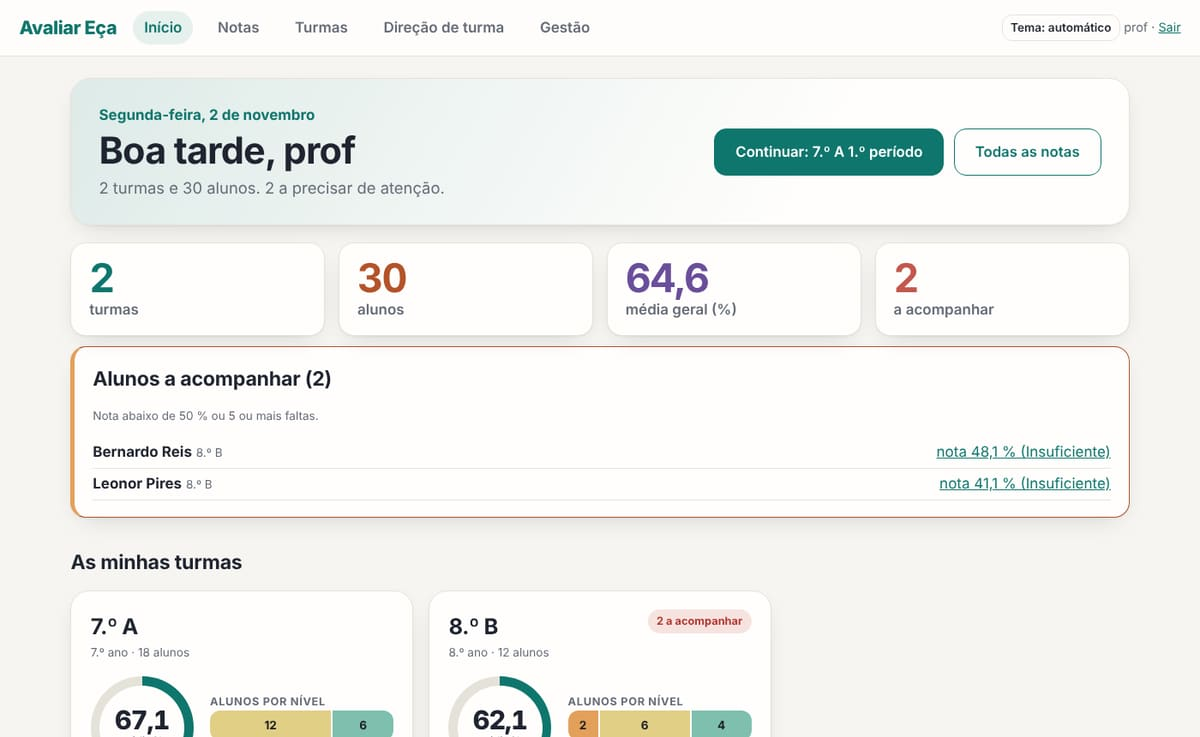
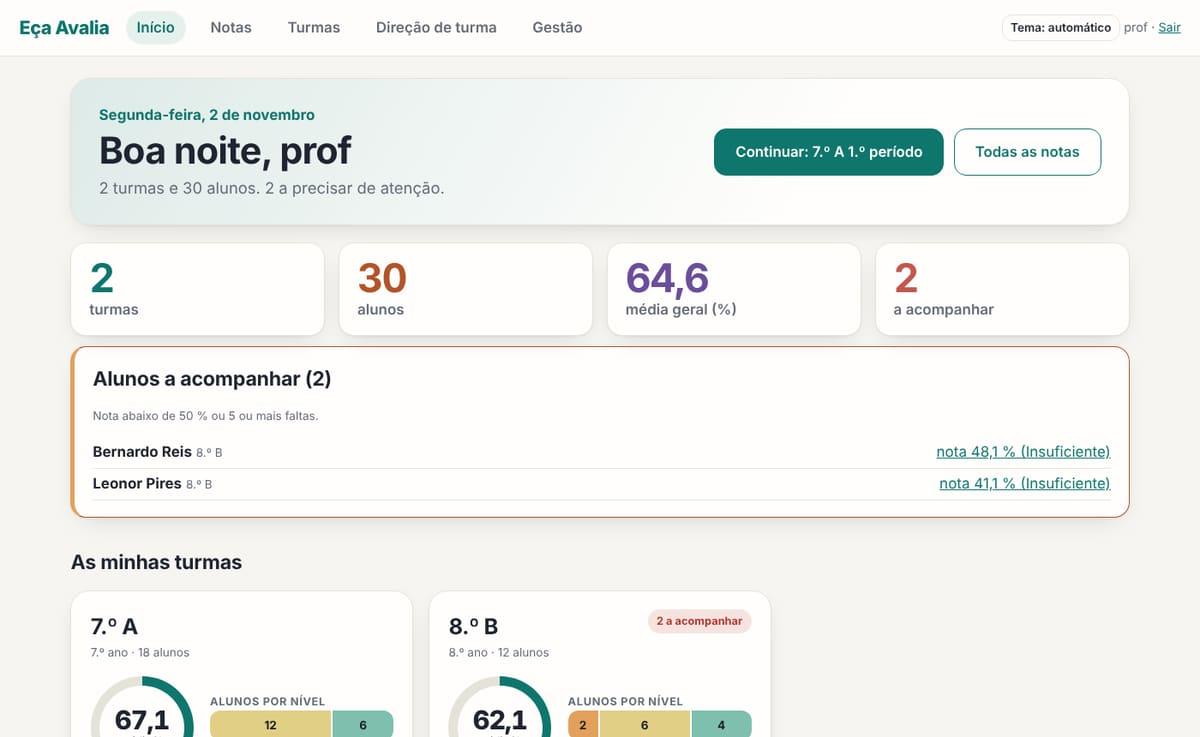
Nome Eça Avalia e nova página de entrada com explicação e infográficos (0.13.0)
Claude-Session: https://claude.ai/code/session_01VxEsXfbmY6rpa9bjUdyjvj

Changed region(s): [[0.1233, 0.1872, 0.3083, 0.2497], [0.2467, 0.0312, 0.4933, 0.0624], [0.0, 0.0312, 0.2158, 0.0624]]

diff --git a/public/entrar.html b/public/entrar.html
@@ -3,24 +3,28 @@
 <head>
 <meta charset="utf-8">
 <meta name="viewport" content="width=device-width, initial-scale=1">
-<title>Entrar · Avaliar Eça</title>
+<title>Entrar · Eça Avalia</title>
+<meta name="description" content="Eça Avalia: lançar e calcular notas, acompanhar alunos e preparar avaliações intercalares, com ferramentas de sala de aula, para docentes.">
 <link rel="stylesheet" href="/estilo.css?v=__V__">
 <script src="/tema.js?v=__V__"></script>
 </head>
-<body class="entrar">
-<div class="entrada">
-  <section class="slides" aria-roledescription="carrossel" aria-label="Capturas de ecrã da plataforma">
-    <div class="slides-quadro">
-      <figure class="slide ativo"><img src="/img/slide-1.jpg" alt="Página inicial com a saudação, os números das turmas e um cartão por turma com a média, os níveis e o progresso das notas" width="1200" height="737"><figcaption>As tuas turmas num relance: média, níveis e progresso das notas.</figcaption></figure>
-      <figure class="slide"><img src="/img/slide-2.jpg" alt="Pauta com os critérios separados por cor, a fotografia de cada aluno e a escala da nota final" width="1200" height="737" loading="lazy"><figcaption>Pauta ao estilo do Excel, com os critérios bem separados e a escala de cada aluno.</figcaption></figure>
-      <figure class="slide"><img src="/img/slide-3.jpg" alt="Pauta final em cartões, cada um com a fotografia, a nota e a escala de 1 a 5" width="1200" height="737" loading="lazy"><figcaption>Pauta final em cartões, com a fotografia e a escala de 1 a 5 de cada aluno.</figcaption></figure>
-      <figure class="slide"><img src="/img/slide-4.jpg" alt="Grelha de um teste com a pontuação de cada aluno em cada questão" width="1200" height="737" loading="lazy"><figcaption>Grelha de cada teste: pontuação por questão, colada do Excel ou escrita à mão.</figcaption></figure>
-    </div>
-    <div class="slides-controlo"><button type="button" class="sec" id="sl-ant" aria-label="Captura anterior">‹</button><span class="slides-pontos" id="sl-pontos"></span><button type="button" class="sec" id="sl-seg" aria-label="Captura seguinte">›</button></div>
-  </section>
+<body class="entrar pagina-entrada">
+<header class="pe-topo"><span class="pe-marca">Eça Avalia</span><nav><a href="#como">Como funciona</a><a href="#nota">A nota</a><a href="#ver">Ver</a><a href="#ferramentas">Ferramentas</a></nav></header>
+
+<section class="pe-heroi">
+  <div class="pe-texto">
+    <p class="pe-etiqueta">Para docentes do Agrupamento de Escolas Eça de Queirós</p>
+    <h1>Eça Avalia</h1>
+    <p class="pe-lead">A plataforma onde os docentes lançam e calculam as notas, acompanham os alunos e preparam as avaliações intercalares, com as ferramentas de sala de aula sempre à mão.</p>
+    <ul class="pe-pontos">
+      <li><strong>Pauta clara.</strong> Os critérios da tua disciplina e ano, vários testes por critério e a nota final calculada pela média ponderada.</li>
+      <li><strong>Como no Excel.</strong> Escreves, colas e copias notas em grelha, e importas listas e notas de ficheiros do Excel.</li>
+      <li><strong>Menos trabalho.</strong> Níveis de 1 a 5, menções e textos sugeridos para as avaliações intercalares.</li>
+      <li><strong>Para a aula.</strong> Temporizador, sorteio, chamada, sondagens, mapa de sala e quizzes ao vivo, sem contas para os alunos.</li>
+    </ul>
+  </div>
   <main class="caixa-entrar">
-    <h1>Avaliar Eça</h1>
-    <p>Ferramentas de sala de aula e avaliação para docentes.</p>
+    <h2 class="pe-entrar">Entrar</h2>
     <a class="botao grande" href="/auth/entrar">Entrar com a conta da escola</a>
     <p class="pequeno">Só entram docentes da escola com acesso autorizado.</p>
     <details class="painel" id="local"><summary>Entrar com utilizador e palavra-passe</summary>
@@ -32,7 +36,83 @@
       <p class="pequeno">Para docentes que não têm conta Office da escola. Pede os dados a um administrador.</p>
     </details>
   </main>
-</div>
+</section>
+
+<section class="pe-sec" id="como">
+  <h2>Como funciona</h2>
+  <p class="pe-intro">Do primeiro dia de aulas ao conselho de turma, em cinco passos.</p>
+  <ol class="pe-passos">
+    <li><span class="pe-num">1</span><h3>Turmas e alunos</h3><p>Crias a turma e coles a lista de alunos do Excel. Cada docente vê só as suas turmas.</p></li>
+    <li><span class="pe-num">2</span><h3>Testes e grelhas</h3><p>Defines cada teste e, se quiseres, as questões e as cotações. Lanças as pontuações como numa folha de Excel.</p></li>
+    <li><span class="pe-num">3</span><h3>Pauta automática</h3><p>Os critérios e os pesos da tua disciplina dão a nota final de cada aluno, sempre atualizada.</p></li>
+    <li><span class="pe-num">4</span><h3>Níveis e intercalares</h3><p>Nível de 1 a 5, menção e uma proposta de texto para as avaliações intercalares.</p></li>
+    <li><span class="pe-num">5</span><h3>Exportar e guardar</h3><p>Pauta em Excel, histórico de alterações, fecho de períodos e cópias de segurança.</p></li>
+  </ol>
+</section>
+
+<section class="pe-sec pe-alt" id="nota">
+  <h2>Como se chega à nota</h2>
+  <p class="pe-intro">Os critérios e os pesos são definidos pelo administrador para cada disciplina e ano. Eis um exemplo.</p>
+  <div class="pe-formula">
+    <div class="pe-pesos" role="img" aria-label="Exemplo: testes e trabalhos valem 70 por cento e comportamento 30 por cento">
+      <div class="pe-peso g0" style="flex:70"><strong>70 %</strong><span>Testes e trabalhos</span><small>média ponderada dos testes</small></div>
+      <div class="pe-peso g1" style="flex:30"><strong>30 %</strong><span>Comportamento</span><small>nível de 1 a 5 dado por ti</small></div>
+    </div>
+    <p class="pe-seta" aria-hidden="true">↓</p>
+    <p class="pe-final"><strong>Nota final</strong> em percentagem, arredondada a 1 ou 2 casas decimais</p>
+    <p class="pe-seta" aria-hidden="true">↓</p>
+    <div class="pe-escala" aria-label="Escala de níveis">
+      <div class="pe-nivel lv1"><strong>1</strong><span>Muito insuficiente</span><small>0 a 19 %</small></div>
+      <div class="pe-nivel lv2"><strong>2</strong><span>Insuficiente</span><small>20 a 49 %</small></div>
+      <div class="pe-nivel lv3"><strong>3</strong><span>Suficiente</span><small>50 a 69 %</small></div>
+      <div class="pe-nivel lv4"><strong>4</strong><span>Bom</span><small>70 a 89 %</small></div>
+      <div class="pe-nivel lv5"><strong>5</strong><span>Muito bom</span><small>90 a 100 %</small></div>
+    </div>
+    <p class="pequeno">Os limites dos níveis são os da escola e podem ser ajustados. Quando falta um critério, a nota final é calculada com os que existem e fica marcada como parcial.</p>
+  </div>
+</section>
+
+<section class="pe-sec" id="ver">
+  <h2>Ver como é</h2>
+  <section class="slides" aria-roledescription="carrossel" aria-label="Capturas de ecrã da plataforma">
+    <div class="slides-quadro">
+      <figure class="slide ativo"><img src="/img/slide-1.jpg" alt="Página inicial com a saudação, os números das turmas e um cartão por turma com a média, os níveis e o progresso das notas" width="1200" height="737"><figcaption>As tuas turmas num relance: média, níveis e progresso das notas.</figcaption></figure>
+      <figure class="slide"><img src="/img/slide-2.jpg" alt="Pauta com os critérios separados por cor, a fotografia de cada aluno e a escala da nota final" width="1200" height="737" loading="lazy"><figcaption>Pauta ao estilo do Excel, com os critérios bem separados e a escala de cada aluno.</figcaption></figure>
+      <figure class="slide"><img src="/img/slide-3.jpg" alt="Pauta final em cartões, cada um com a fotografia, a nota e a escala de 1 a 5" width="1200" height="737" loading="lazy"><figcaption>Pauta final em cartões, com a fotografia e a escala de 1 a 5 de cada aluno.</figcaption></figure>
+      <figure class="slide"><img src="/img/slide-4.jpg" alt="Grelha de um teste com a pontuação de cada aluno em cada questão" width="1200" height="737" loading="lazy"><figcaption>Grelha de cada teste: pontuação por questão, colada do Excel ou escrita à mão.</figcaption></figure>
+    </div>
+    <div class="slides-controlo"><button type="button" class="sec" id="sl-ant" aria-label="Captura anterior">‹</button><span class="slides-pontos" id="sl-pontos"></span><button type="button" class="sec" id="sl-seg" aria-label="Captura seguinte">›</button></div>
+  </section>
+  <p class="pequeno pe-nota-img">Capturas com turmas e alunos inventados.</p>
+</section>
+
+<section class="pe-sec pe-alt" id="ferramentas">
+  <h2>E ferramentas para a sala de aula</h2>
+  <p class="pe-intro">Para usar no quadro ou no telemóvel. Os alunos não precisam de conta.</p>
+  <div class="pe-ferr">
+    <div><strong>Temporizador</strong><span>Contagem decrescente para o ecrã da sala.</span></div>
+    <div><strong>Sorteio</strong><span>Um aluno ou grupos ao acaso.</span></div>
+    <div><strong>Chamada</strong><span>Presenças por aula.</span></div>
+    <div><strong>Listas</strong><span>Listas de verificação.</span></div>
+    <div><strong>Sondagem</strong><span>Pergunta rápida com um código, com resultados em direto.</span></div>
+    <div><strong>Mapa de sala</strong><span>Os lugares dos alunos.</span></div>
+    <div><strong>Quadros</strong><span>Notas e ideias da aula.</span></div>
+    <div><strong>Quizzes ao vivo</strong><span>Jogo com PIN, ao estilo Kahoot.</span></div>
+  </div>
+</section>
+
+<section class="pe-sec" id="confianca">
+  <h2>Os dados dos alunos</h2>
+  <ul class="pe-conf">
+    <li><strong>Só docentes autorizados</strong> entram, com a conta Microsoft da escola ou uma conta local criada por um administrador.</li>
+    <li><strong>Cada docente</strong> só vê as suas turmas.</li>
+    <li><strong>Registo de alterações</strong>: fica guardado quem mudou cada nota e quando, e os períodos fecham-se depois do conselho de turma.</li>
+    <li><strong>Nos jogos e sondagens</strong> os alunos entram com uma alcunha, sem conta.</li>
+    <li><strong>Prazos de retenção</strong> e cópias de segurança definidos pela escola. Lê o <a href="/privacidade.html">aviso de privacidade</a>.</li>
+  </ul>
+</section>
+
+<footer class="pe-rodape"><span>Eça Avalia</span><a href="/privacidade.html">Privacidade</a></footer>
 <script src="/entrar.js?v=__V__"></script>
 </body>
 </html>

diff --git a/public/estilo.css b/public/estilo.css
@@ -363,3 +363,65 @@ body.entrar { display: block; place-items: unset; }
 .entrada .caixa-entrar { width: 100%; max-width: 440px; justify-self: center; }
 @media (max-width: 900px) { .entrada { grid-template-columns: 1fr; min-height: 0; } .entrada .caixa-entrar { order: -1; } }
 @media (prefers-reduced-motion: reduce) { .slide { transition: none; } }
+
+/* Página de entrada: explicação, infográficos e slideshow */
+body.pagina-entrada { display: block; min-height: 0; }
+.pe-topo { display: flex; align-items: center; justify-content: space-between; gap: 1rem; max-width: 1180px; margin: 0 auto; padding: 1rem 1.4rem; }
+.pe-marca { font-weight: 800; font-size: 1.3rem; letter-spacing: -.02em; color: var(--marca); }
+.pe-topo nav { display: flex; gap: 1.1rem; flex-wrap: wrap; }
+.pe-topo nav a { color: var(--suave); text-decoration: none; font-weight: 600; }
+.pe-topo nav a:hover { color: var(--texto); }
+.pe-heroi { display: grid; grid-template-columns: minmax(0, 1.4fr) minmax(0, 1fr); gap: 3rem; align-items: center; max-width: 1180px; margin: 0 auto; padding: 1.5rem 1.4rem 3.5rem; }
+.pe-etiqueta { margin: 0 0 .6rem; color: var(--marca); font-weight: 700; }
+.pe-heroi h1 { font-size: clamp(2.8rem, 6vw, 4.4rem); letter-spacing: -.04em; margin: 0 0 .8rem; line-height: 1.02; }
+.pe-lead { font-size: 1.25rem; color: var(--suave); margin: 0 0 1.4rem; max-width: 36rem; }
+.pe-pontos { list-style: none; padding: 0; margin: 0; display: grid; gap: .8rem; max-width: 38rem; }
+.pe-pontos li { padding-left: 1.9rem; position: relative; }
+.pe-pontos li::before { content: ""; position: absolute; left: 0; top: .35rem; width: 1.1rem; height: 1.1rem; border-radius: 50%; background: var(--marca-fundo); border: 2px solid var(--marca); }
+.pe-heroi .caixa-entrar { text-align: left; }
+.pe-heroi .caixa-entrar .botao { display: block; text-align: center; margin: 1rem 0 .6rem; }
+.pe-entrar { margin: 0; font-size: 1.7rem; }
+.pe-sec { padding: 3.5rem 1.4rem; }
+.pe-sec > * { max-width: 1180px; margin-left: auto; margin-right: auto; }
+.pe-alt { background: color-mix(in srgb, var(--marca) 6%, var(--fundo)); }
+.pe-sec h2 { font-size: clamp(1.8rem, 3.4vw, 2.5rem); letter-spacing: -.03em; margin: 0 auto .5rem; }
+.pe-intro { font-size: 1.15rem; color: var(--suave); margin: 0 auto 2rem; }
+.pe-passos { list-style: none; padding: 0; margin: 0 auto; display: grid; grid-template-columns: repeat(5, minmax(0, 1fr)); gap: 1rem; counter-reset: p; position: relative; }
+.pe-passos li { background: var(--cartao); border: 1px solid var(--linha); border-radius: 20px; padding: 1.2rem 1.1rem 1.3rem; box-shadow: var(--sombra); position: relative; }
+.pe-passos li:not(:last-child)::after { content: ""; position: absolute; top: 2.2rem; right: -1.05rem; width: 1.05rem; height: 3px; background: var(--marca); opacity: .55; }
+.pe-num { display: grid; place-items: center; width: 2.6rem; height: 2.6rem; border-radius: 50%; background: var(--marca); color: var(--sobre-marca); font-weight: 800; font-size: 1.2rem; margin-bottom: .7rem; }
+.pe-passos h3 { margin: 0 0 .35rem; font-size: 1.1rem; }
+.pe-passos p { margin: 0; color: var(--suave); font-size: .96rem; }
+.pe-formula { max-width: 56rem; margin: 0 auto; text-align: center; }
+.pe-pesos { display: flex; gap: 4px; border-radius: 20px; overflow: hidden; }
+.pe-peso { padding: 1.3rem 1rem; text-align: center; background: color-mix(in srgb, var(--gc) 16%, var(--cartao)); border-top: 5px solid var(--gc); display: grid; gap: .1rem; }
+.pe-peso strong { font-size: 2.6rem; letter-spacing: -.03em; line-height: 1; color: var(--gc); }
+.pe-peso span { font-weight: 700; }
+.pe-peso small { color: var(--suave); }
+.pe-peso.g0 { --gc: var(--g0); } .pe-peso.g1 { --gc: var(--g1); }
+.pe-seta { margin: .4rem 0; font-size: 1.8rem; color: var(--suave); }
+.pe-final { margin: 0; padding: 1rem 1.2rem; border-radius: 16px; background: var(--cartao); border: 1px solid var(--linha); box-shadow: var(--sombra); font-size: 1.1rem; }
+.pe-escala { display: grid; grid-template-columns: repeat(5, minmax(0, 1fr)); gap: 4px; border-radius: 18px; overflow: hidden; margin-bottom: 1rem; }
+.pe-nivel { padding: 1rem .5rem; display: grid; gap: .1rem; color: #1b1f26; }
+.pe-nivel strong { font-size: 2rem; line-height: 1; }
+.pe-nivel span { font-weight: 700; font-size: .92rem; }
+.pe-nivel small { font-size: .82rem; opacity: .85; }
+.pe-sec .slides { max-width: 900px; margin: 0 auto; }
+.pe-nota-img { text-align: center; }
+.pe-ferr { display: grid; grid-template-columns: repeat(auto-fill, minmax(15rem, 1fr)); gap: 1rem; }
+.pe-ferr div { background: var(--cartao); border: 1px solid var(--linha); border-radius: 18px; padding: 1.1rem 1.2rem; box-shadow: var(--sombra); display: grid; gap: .25rem; }
+.pe-ferr span { color: var(--suave); font-size: .96rem; }
+.pe-conf { list-style: none; padding: 0; margin: 0 auto; display: grid; grid-template-columns: repeat(auto-fit, minmax(19rem, 1fr)); gap: 1rem 2.5rem; }
+.pe-conf li { padding-left: 1.9rem; position: relative; }
+.pe-conf li::before { content: ""; position: absolute; left: 0; top: .4rem; width: 1rem; height: .55rem; border-left: 3px solid var(--marca); border-bottom: 3px solid var(--marca); transform: rotate(-45deg); }
+.pe-rodape { display: flex; justify-content: space-between; max-width: 1180px; margin: 0 auto; padding: 2rem 1.4rem 3rem; color: var(--suave); }
+html { scroll-behavior: smooth; }
+@media (prefers-reduced-motion: reduce) { html { scroll-behavior: auto; } }
+@media (max-width: 960px) {
+  .pe-heroi { grid-template-columns: 1fr; gap: 2rem; }
+  .pe-heroi .caixa-entrar { order: -1; max-width: none; }
+  .pe-passos { grid-template-columns: 1fr 1fr; }
+  .pe-passos li:not(:last-child)::after { display: none; }
+  .pe-topo nav { display: none; }
+}
+@media (max-width: 560px) { .pe-passos { grid-template-columns: 1fr; } .pe-escala { grid-template-columns: 1fr; } .pe-nivel { grid-auto-flow: column; justify-content: space-between; align-items: center; } .pe-pesos { flex-direction: column; } }

diff --git a/server.js b/server.js
@@ -543,7 +543,7 @@ function criarServidor(env = process.env) {
   rota("POST", "/api/admin/correio/teste", async (c) => {
     soAdmin(c);
     const dest = c.p.local ? CORREIO.destinatarios() : [c.p.upn];
-    const n = await CORREIO.enviar(dest, "Avaliar Eça: email de teste", "O envio de email do Avaliar Eça está a funcionar. Os avisos de expiração do segredo do Entra chegam a este endereço.");
+    const n = await CORREIO.enviar(dest, "Eça Avalia: email de teste", "O envio de email do Eça Avalia está a funcionar. Os avisos de expiração do segredo do Entra chegam a este endereço.");
     return { ok: true, enviados: n, para: dest };
   });
   if ((env.DB_FILE || "x") !== ":memory:" && env.CORREIO !== "0") {
@@ -875,7 +875,7 @@ function criarServidor(env = process.env) {
       if (p.startsWith("/auth/")) {
         const esc = (t) => String(t).replace(/[&<>"]/g, (c) => ({ "&": "&amp;", "<": "&lt;", ">": "&gt;", '"': "&quot;" }[c]));
         res.writeHead(codigo, { "Content-Type": "text/html; charset=utf-8", "Cache-Control": "no-store" });
-        return res.end(`<!doctype html><html lang="pt-PT"><head><meta charset="utf-8"><meta name="viewport" content="width=device-width, initial-scale=1"><title>Não foi possível entrar · Avaliar Eça</title><link rel="stylesheet" href="/estilo.css?v=${VERSAO}"></head><body class="entrar"><main class="caixa-entrar" style="margin:12vh auto"><h1>Avaliar Eça</h1><h2 style="margin-top:0">Não foi possível entrar</h2><p>${esc(msg)}</p><p><a class="botao grande" href="/entrar.html">Voltar e tentar outra vez</a></p></main></body></html>`);
+        return res.end(`<!doctype html><html lang="pt-PT"><head><meta charset="utf-8"><meta name="viewport" content="width=device-width, initial-scale=1"><title>Não foi possível entrar · Eça Avalia</title><link rel="stylesheet" href="/estilo.css?v=${VERSAO}"></head><body class="entrar"><main class="caixa-entrar" style="margin:12vh auto"><h1>Eça Avalia</h1><h2 style="margin-top:0">Não foi possível entrar</h2><p>${esc(msg)}</p><p><a class="botao grande" href="/entrar.html">Voltar e tentar outra vez</a></p></main></body></html>`);
       }
       res.writeHead(codigo, { "Content-Type": "text/plain; charset=utf-8" });
       res.end(msg);

diff --git a/lib/correio.js b/lib/correio.js
@@ -63,8 +63,8 @@ module.exports = function criarCorreio({ db, auth, segredo, graphUrl, env, baseU
   function textoAviso(e) {
     const quando = e.dias <= 0 ? "expira hoje" : e.dias === 1 ? "expira amanhã" : `expira daqui a ${e.dias} dias`;
     return {
-      assunto: `Avaliar Eça: o segredo do Microsoft Entra ${quando} (${dataPt(e.expira)})`,
-      texto: `Olá,\n\nO segredo de cliente da aplicação Avaliar Eça no Microsoft Entra ID ${quando}, a ${dataPt(e.expira)}. Depois dessa data ninguém consegue entrar com a conta Office. As contas locais continuam a funcionar.\n\nPara renovar (demora uns minutos):\n1. Em entra.microsoft.com, vai a Registos de aplicações, abre a aplicação do Avaliar Eça, Certificados e segredos, Novo segredo de cliente.\n2. Copia a coluna Valor (não o ID do segredo) logo que for criado, porque depois já não se mostra.\n3. No servidor, edita o ficheiro .env: troca CLIENT_SECRET pelo valor novo e CLIENT_SECRET_EXPIRA pela nova data (aaaa-mm-dd).\n4. Aplica com: docker compose -f docker-compose.unraid.yml up -d\n\nEndereço da plataforma: ${baseUrl}\n\nEsta mensagem foi enviada automaticamente pelo eink. Deixa de ser enviada quando a data de CLIENT_SECRET_EXPIRA mudar.`,
+      assunto: `Eça Avalia: o segredo do Microsoft Entra ${quando} (${dataPt(e.expira)})`,
+      texto: `Olá,\n\nO segredo de cliente da aplicação Eça Avalia no Microsoft Entra ID ${quando}, a ${dataPt(e.expira)}. Depois dessa data ninguém consegue entrar com a conta Office. As contas locais continuam a funcionar.\n\nPara renovar (demora uns minutos):\n1. Em entra.microsoft.com, vai a Registos de aplicações, abre a aplicação do Eça Avalia, Certificados e segredos, Novo segredo de cliente.\n2. Copia a coluna Valor (não o ID do segredo) logo que for criado, porque depois já não se mostra.\n3. No servidor, edita o ficheiro .env: troca CLIENT_SECRET pelo valor novo e CLIENT_SECRET_EXPIRA pela nova data (aaaa-mm-dd).\n4. Aplica com: docker compose -f docker-compose.unraid.yml up -d\n\nEndereço da plataforma: ${baseUrl}\n\nEsta mensagem foi enviada automaticamente pelo eink. Deixa de ser enviada quando a data de CLIENT_SECRET_EXPIRA mudar.`,
     };
   }
 

diff --git a/public/app.js b/public/app.js
@@ -35,7 +35,7 @@ const num = (v, casas = 1) => (v === null || v === undefined ? "" : String(Math.
 function avisoSegredo() {
   const s = EINK.eu && EINK.eu.segredo;
   if (!s || s.dias > 60) return "";
-  return `<p class="banner-fechado" role="alert"><strong>${s.dias < 0 ? "O segredo do Microsoft Entra expirou" : `O segredo do Microsoft Entra expira em ${s.dias} dia(s)`}</strong> (${s.expira}). ${s.dias < 0 ? "Ninguém consegue entrar até ser renovado." : "Depois dessa data ninguém consegue entrar."} No Entra: Registos de aplicações → a aplicação Avaliar Eça → Certificados e segredos → novo segredo; depois atualiza <code>CLIENT_SECRET</code> e <code>CLIENT_SECRET_EXPIRA</code> no <code>.env</code> e reinicia.</p>`;
+  return `<p class="banner-fechado" role="alert"><strong>${s.dias < 0 ? "O segredo do Microsoft Entra expirou" : `O segredo do Microsoft Entra expira em ${s.dias} dia(s)`}</strong> (${s.expira}). ${s.dias < 0 ? "Ninguém consegue entrar até ser renovado." : "Depois dessa data ninguém consegue entrar."} No Entra: Registos de aplicações → a aplicação Eça Avalia → Certificados e segredos → novo segredo; depois atualiza <code>CLIENT_SECRET</code> e <code>CLIENT_SECRET_EXPIRA</code> no <code>.env</code> e reinicia.</p>`;
 }
 EINK.avisoSegredo = avisoSegredo;
 async function painel() { return EINK.inicio(); }

diff --git a/lib/versoes.js b/lib/versoes.js
@@ -2,6 +2,10 @@
 // Histórico de versões (mais recente primeiro). A cada versão nova: subir "version" no package.json e acrescentar a entrada no topo.
 // `data` é a data e a hora (hora de Lisboa) em que a versão foi publicada. Tipos: novidade, melhoria, correção.
 module.exports = [
+  { versao: "0.13.0", data: "2026-11-02 20:34", tipo: "novidade", itens: [
+    "O nome passa a «Eça Avalia».",
+    "Nova página de entrada: explica o que a plataforma faz, com um infográfico dos cinco passos, outro de como se chega à nota (pesos dos critérios e escala de níveis de 1 a 5), o slideshow de capturas, as ferramentas de sala e uma nota sobre os dados dos alunos, tudo ao lado do login.",
+  ] },
   { versao: "0.12.1", data: "2026-11-02 20:26", tipo: "correção", itens: [
     "Entrada no telemóvel: se a Microsoft devolver o utilizador a outro navegador ou separador, o pedido de entrada recupera-se no servidor (só do mesmo endereço IP, durante 10 minutos) em vez de falhar com «o pedido expirou».",
     "Os erros da entrada aparecem numa página com o botão «Voltar e tentar outra vez», em vez de texto simples que alguns navegadores do telemóvel descarregavam como ficheiro.",

diff --git a/public/index.html b/public/index.html
@@ -3,13 +3,13 @@
 <head>
 <meta charset="utf-8">
 <meta name="viewport" content="width=device-width, initial-scale=1">
-<title>Avaliar Eça · Ferramentas e avaliação para docentes</title>
+<title>Eça Avalia · Ferramentas e avaliação para docentes</title>
 <link rel="stylesheet" href="/estilo.css?v=__V__">
 <script src="/tema.js?v=__V__"></script>
 </head>
 <body>
 <header class="topo">
-  <a class="marca" href="#/">Avaliar Eça</a> <a class="versao" id="versao" href="#/versoes" title="Ver o que mudou" hidden></a>
+  <a class="marca" href="#/">Eça Avalia</a> <a class="versao" id="versao" href="#/versoes" title="Ver o que mudou" hidden></a>
   <nav>
     <a href="#/">Início</a>
     <a href="#/notas">Notas</a>

diff --git a/public/privacidade.html b/public/privacidade.html
@@ -3,7 +3,7 @@
 <head>
 <meta charset="utf-8">
 <meta name="viewport" content="width=device-width, initial-scale=1">
-<title>Privacidade · Avaliar Eça</title>
+<title>Privacidade · Eça Avalia</title>
 <link rel="stylesheet" href="/estilo.css">
 <script src="/tema.js"></script>
 </head>

diff --git a/public/sondagem.html b/public/sondagem.html
@@ -3,7 +3,7 @@
 <head>
 <meta charset="utf-8">
 <meta name="viewport" content="width=device-width, initial-scale=1">
-<title>Sondagem · Avaliar Eça</title>
+<title>Sondagem · Eça Avalia</title>
 <link rel="stylesheet" href="/estilo.css">
 <script src="/tema.js"></script>
 </head>

diff --git a/public/jogar.html b/public/jogar.html
@@ -3,7 +3,7 @@
 <head>
 <meta charset="utf-8">
 <meta name="viewport" content="width=device-width, initial-scale=1">
-<title>Jogar · Avaliar Eça</title>
+<title>Jogar · Eça Avalia</title>
 <link rel="stylesheet" href="/estilo.css">
 <script src="/tema.js"></script>
 </head>

diff --git a/LEIA-ME.md b/LEIA-ME.md
@@ -1,4 +1,4 @@
-# Avaliar Eça (nome técnico: eink)
+# Eça Avalia (nome técnico: eink)
 
 Ferramentas de sala de aula e avaliação para docentes (painel de cartões, turmas, períodos, testes, pauta e presenças).
 Node 22 sem dependências externas, dados em SQLite (`node:sqlite`), entrada pela conta da escola (Microsoft Entra ID).

diff --git a/CLAUDE.md b/CLAUDE.md
@@ -1,4 +1,4 @@
-# Avaliar Eça
+# Eça Avalia
 
 Plataforma para docentes: ferramentas de sala de aula (como o TeacherStack) e avaliação (testes, períodos, pauta), no estilo do tic.techpro.pt.
 
